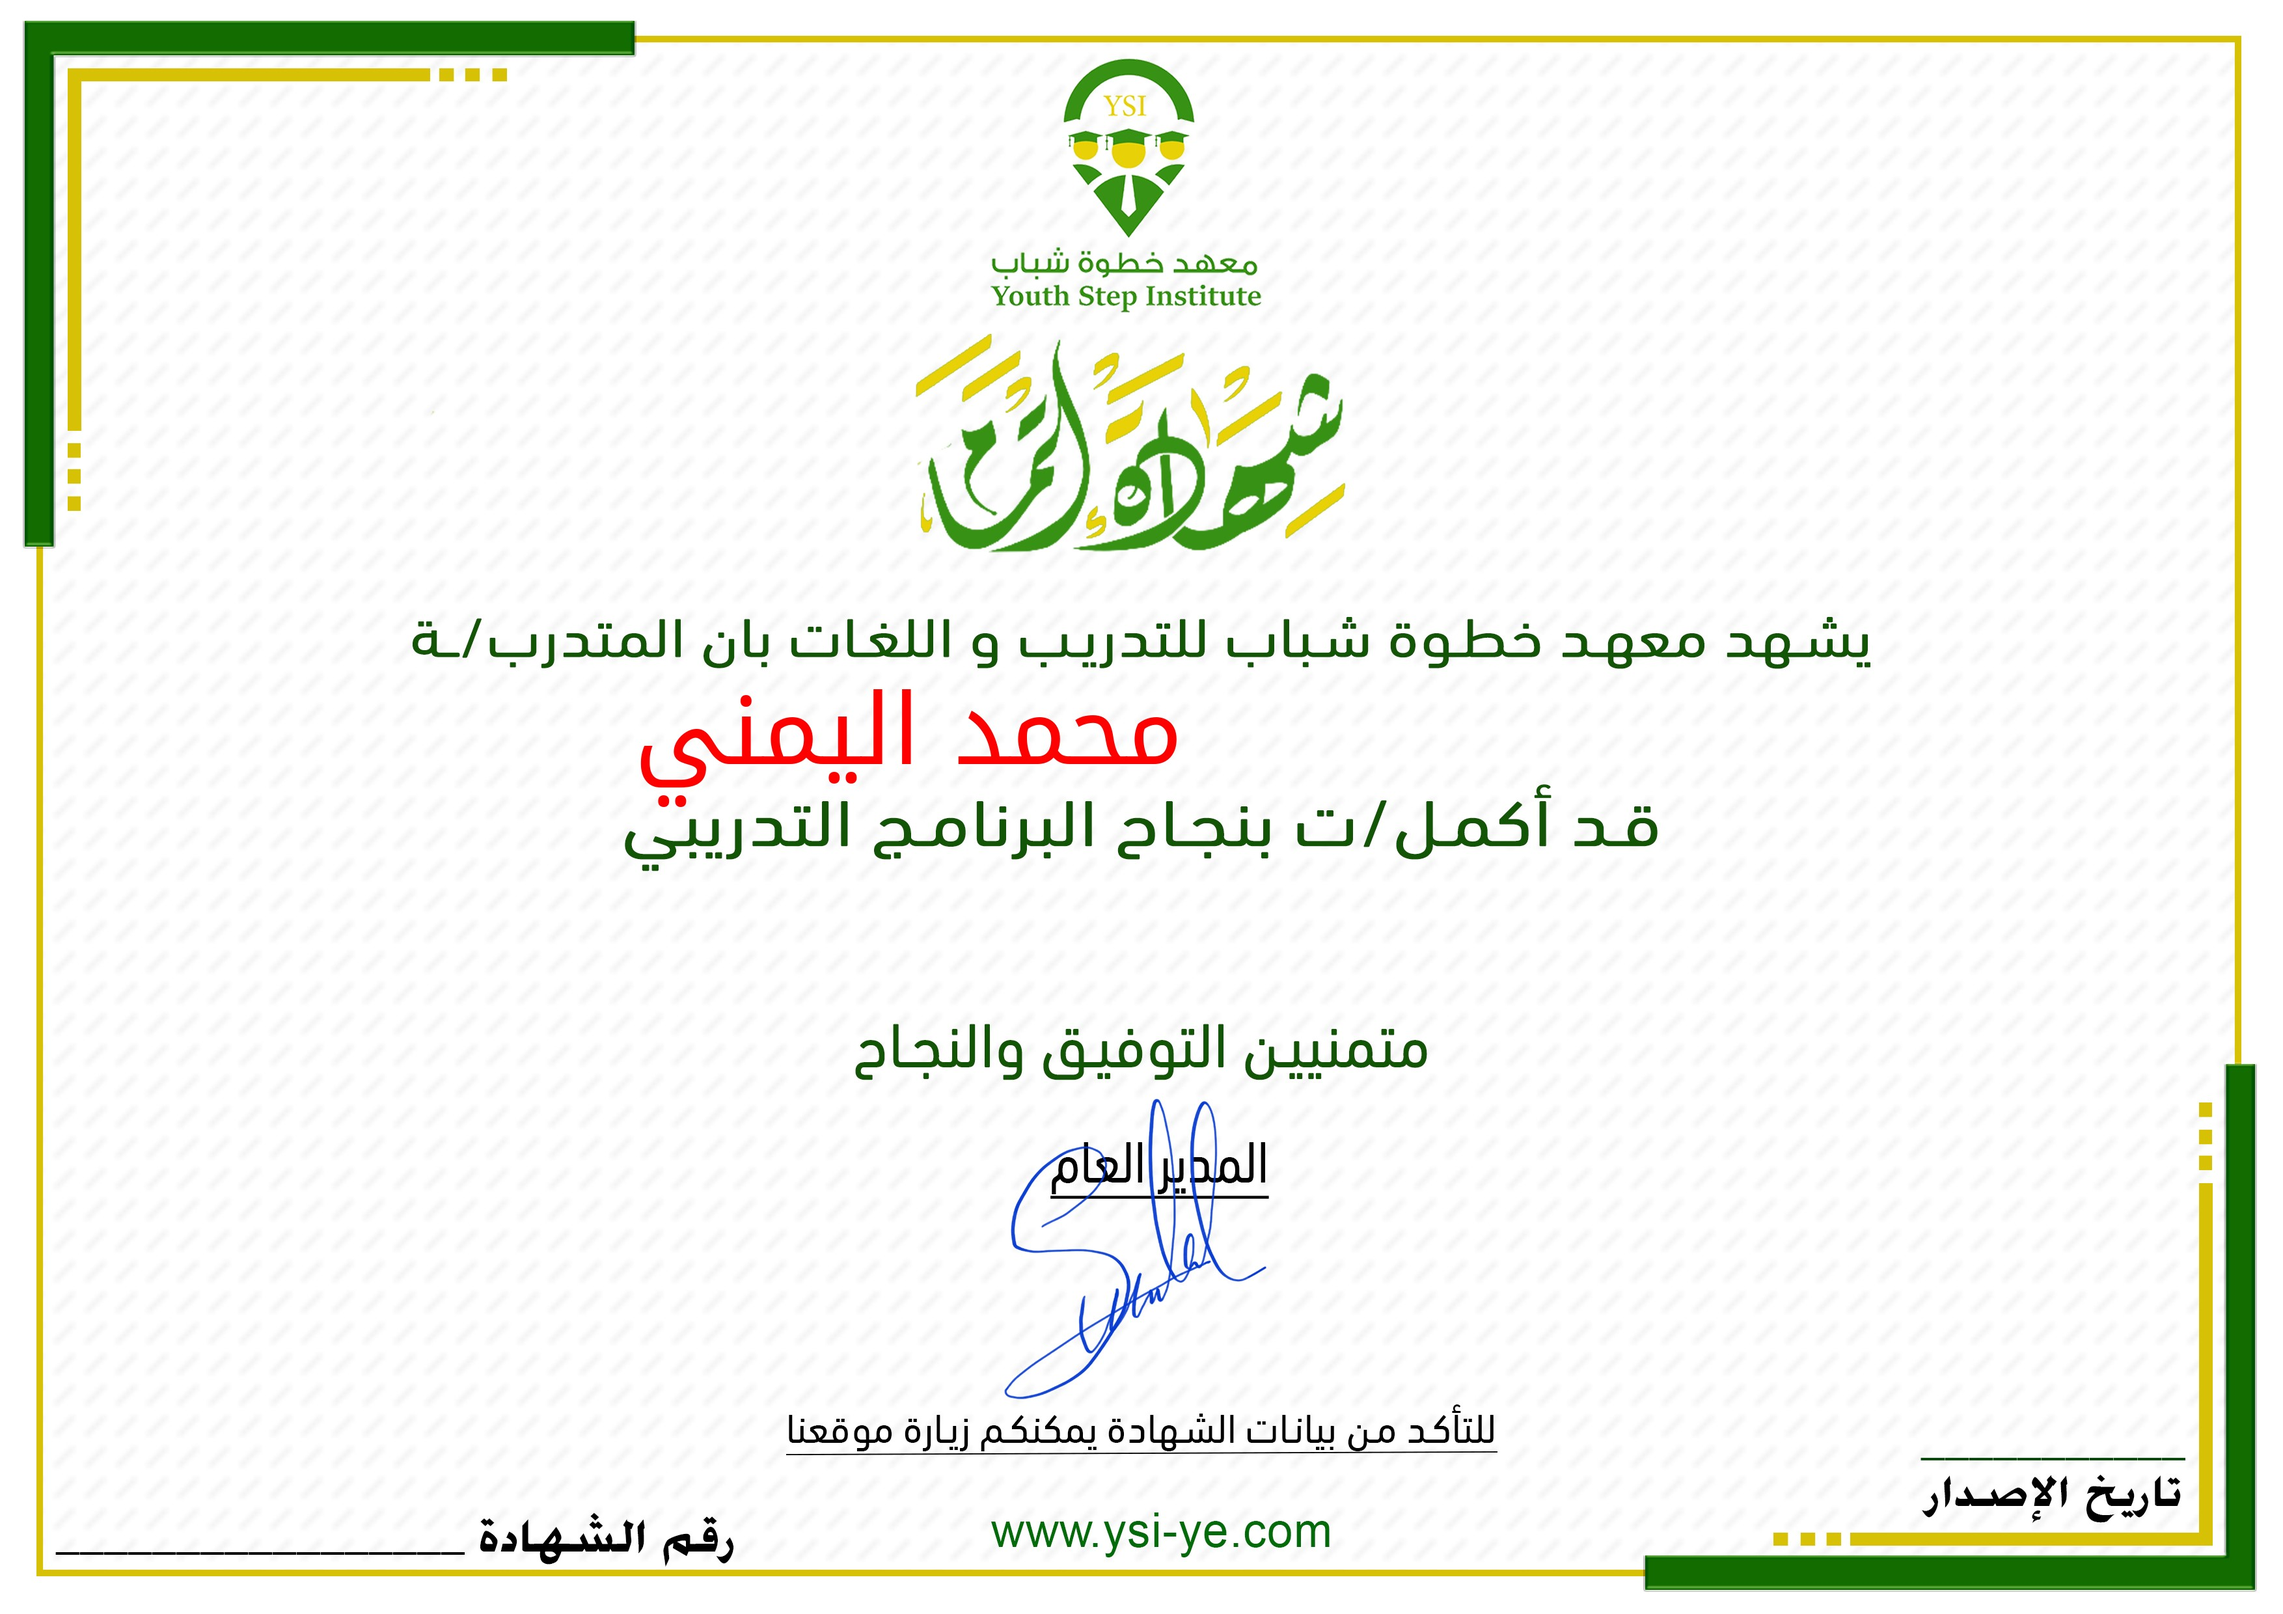
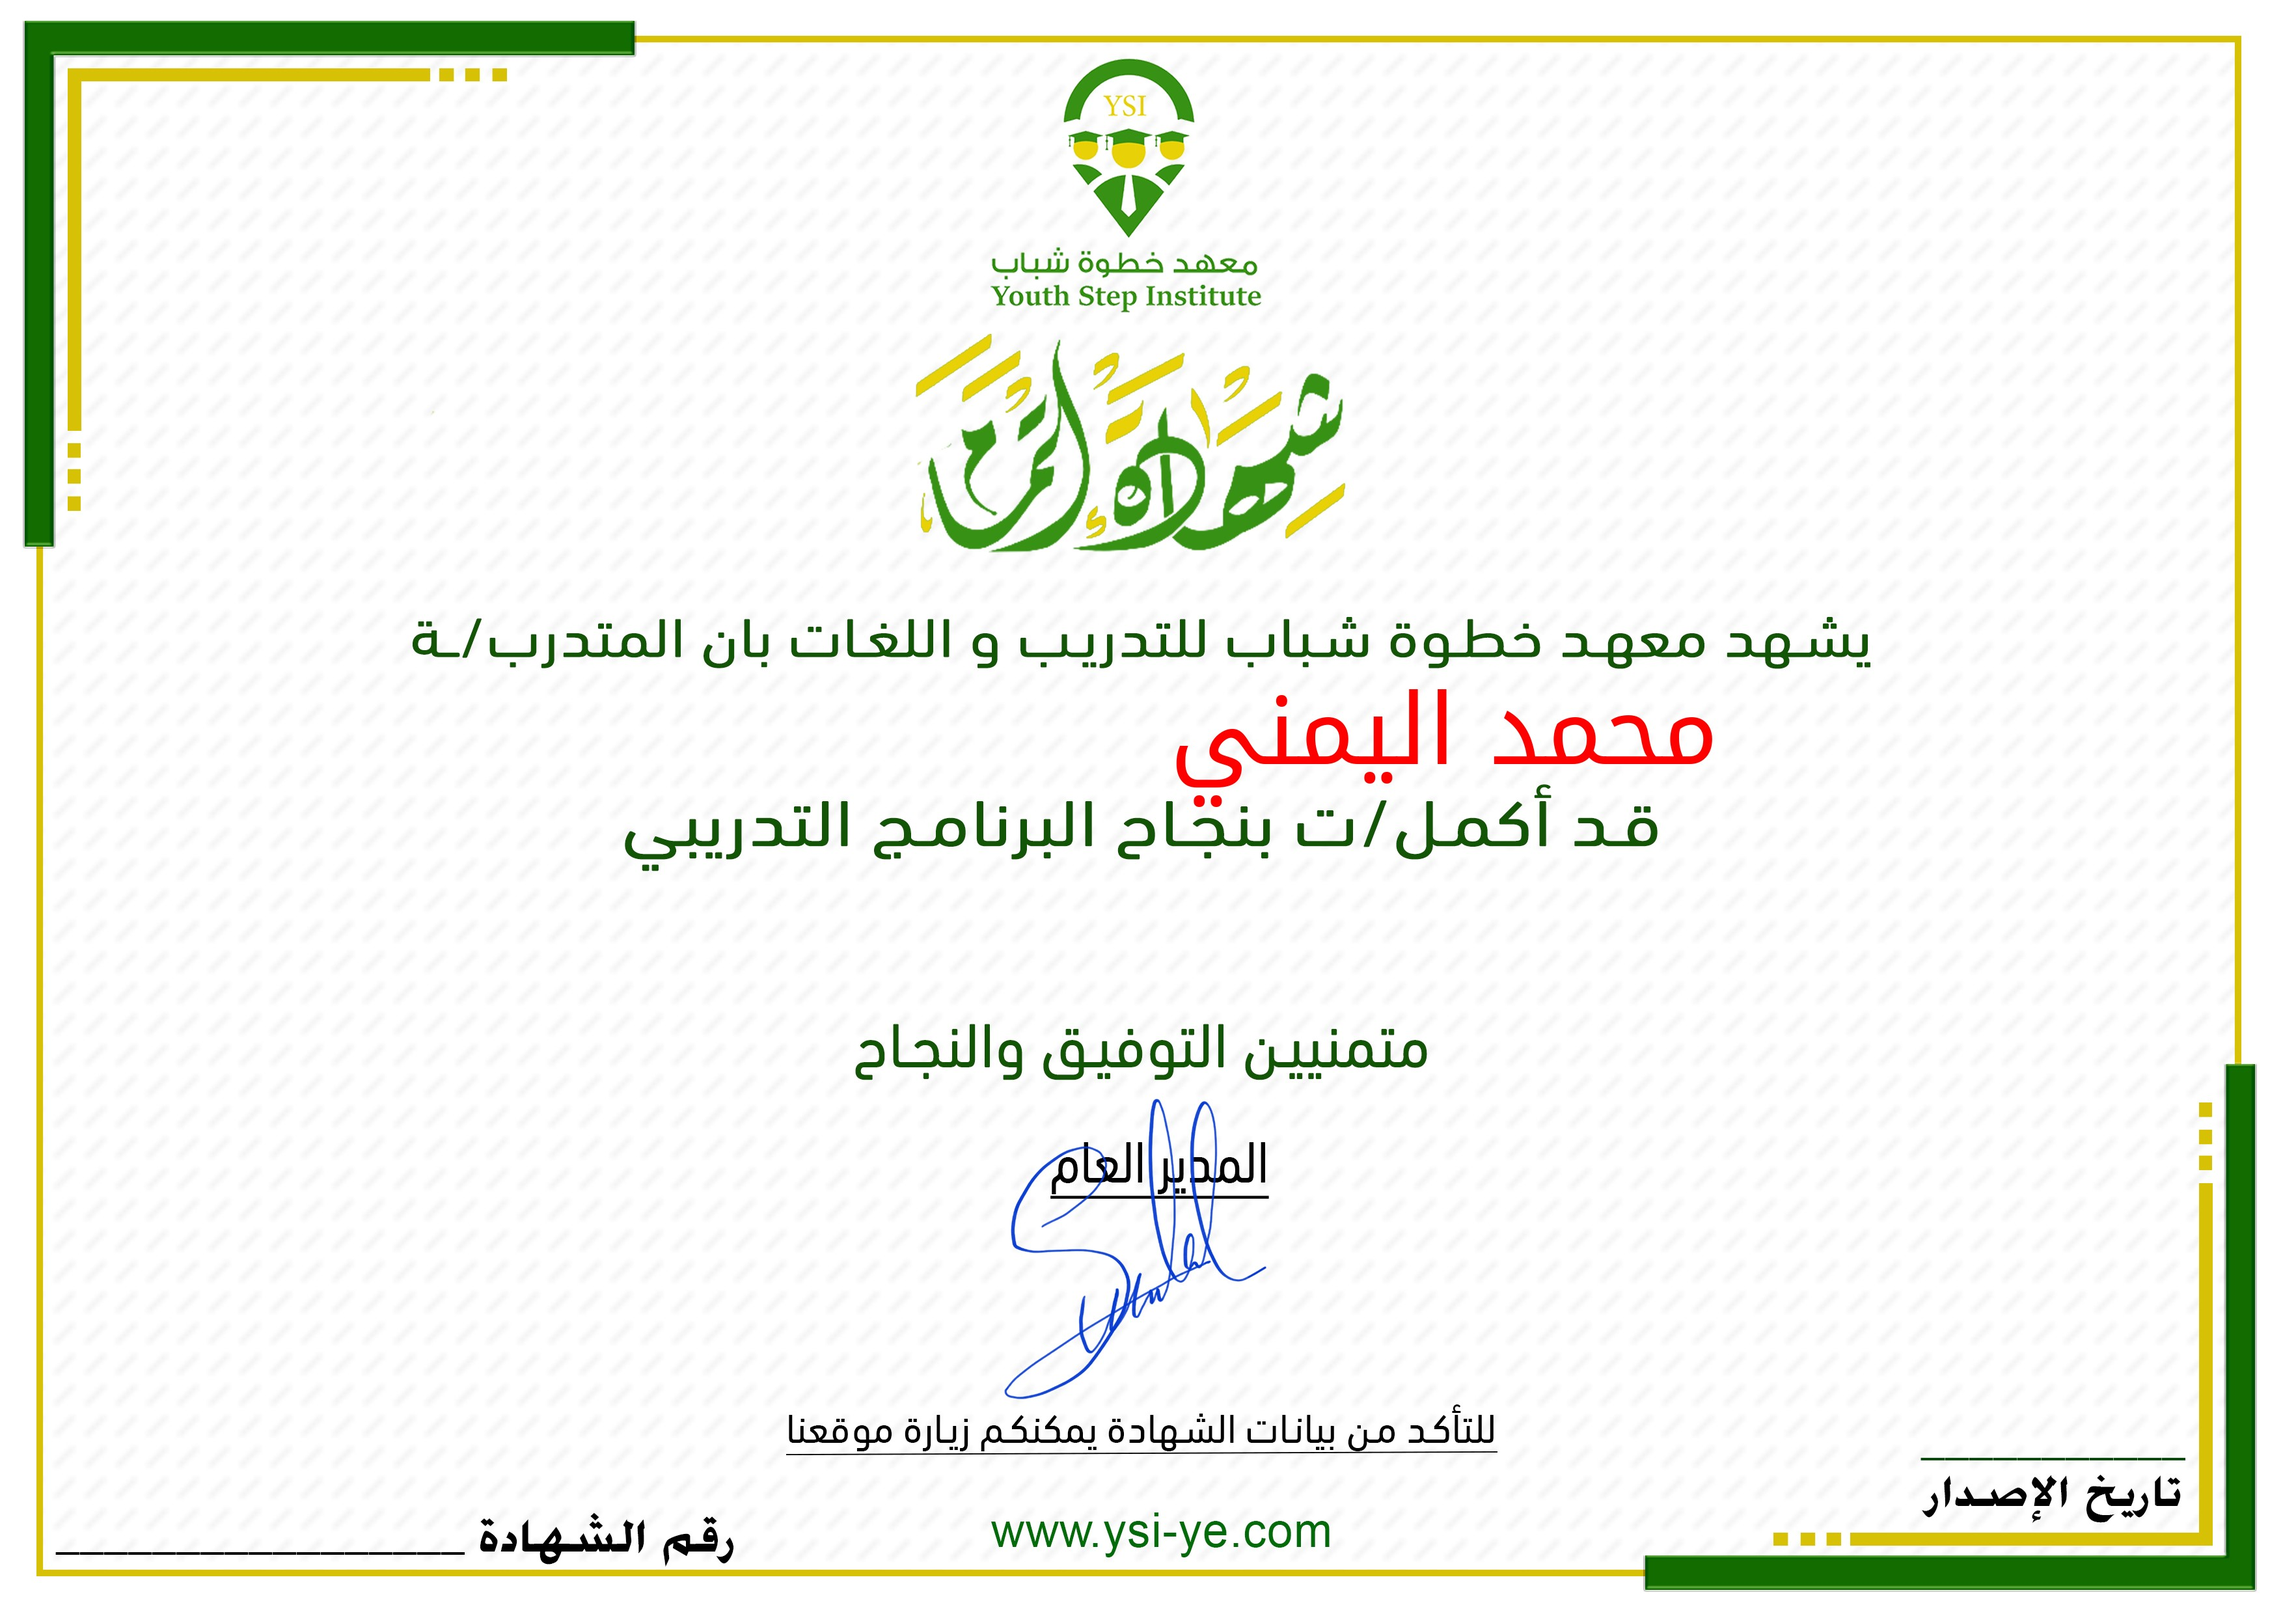
save all

Changed region(s): [[0.2796, 0.4347, 0.7457, 0.4968]]

diff --git a/app/Http/Controllers/Frontend/CustomerController.php b/app/Http/Controllers/Frontend/CustomerController.php
@@ -149,7 +149,8 @@ class CustomerController extends Controller
         $width = $cover->getWidth();
         $height = $cover->getHeight();
 
-        $cover->text($userName, $width - 1700,  $height - 1240, function ($font) {
+        // $cover->text($userName, $width - 1700,  $height - 1240, function ($font) {
+        $cover->text($userName, $width - ($width / 2 - $width / 4),  $height - 1240, function ($font) {
             $font->file('fonts/DroidKufi-Regular.ttf');
             $font->size(150);
             $font->color('#ff0000');
